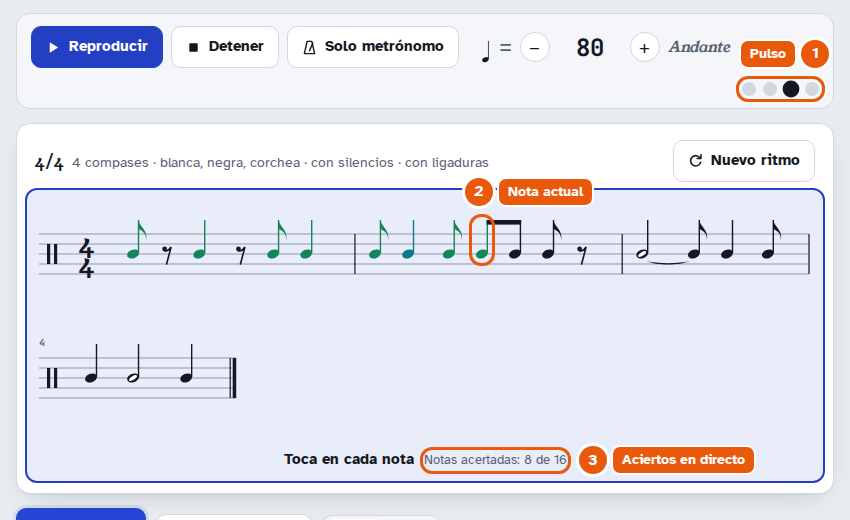
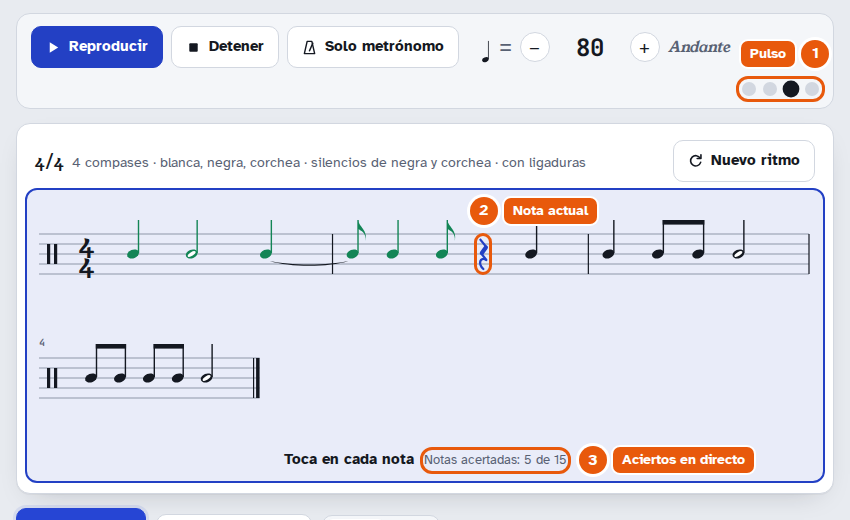
Silencios elegibles uno por uno, campaña actualizada y README
- Las celdas derivan de sus eventos qué notas (req) y qué silencios (rreq)
  usan; los silencios se eligen por figura (redonda, blanca, negra, negra con
  puntillo, corchea, semicorchea) en un panel como el de las figuras, y ya no
  dependen de tener elegida la figura de nota.
- Aviso cuando un silencio elegido no cabe en el compás o necesita figuras
  más cortas. Los ajustes antiguos (silencios sí/no) se migran solos.
- Texto de la zona de toque: «toca sobre la partitura».
- Campaña: cada nivel define sus silencios; niveles nuevos «Silencio de
  semicorchea», «Siete octavos: 3+2+2» y «Cinco octavos: 2+3» (29 en total).
- README y capturas actualizados.

Claude-Session: https://claude.ai/code/session_01KR51CwVVXhtFmUshsMceNd

diff --git a/index.html b/index.html
@@ -151,7 +151,9 @@
         <h2>Figuras</h2>
         <div class="fig-grid" id="figs"></div>
         <p class="hint">El número indica cuántas negras dura cada figura.</p>
-        <label class="sw"><input type="checkbox" id="rests"><span class="track"></span><span>Incluir silencios<small>De las figuras que elegiste</small></span></label>
+        <h2 class="sub">Silencios</h2>
+        <div class="fig-grid" id="restFigs"></div>
+        <p class="hint">Elige qué silencios pueden salir, igual que las figuras. Sin ninguno, el ritmo no tendrá silencios.</p>
         <label class="sw"><input type="checkbox" id="ties"><span class="track"></span><span>Síncopas y ligaduras<small>Notas ligadas entre tiempos y compases, y síncopas como corchea-negra-corchea. La nota ligada no se vuelve a tocar.</small></span></label>
       </div>
 
@@ -263,70 +265,88 @@ function sigOf(C){
   return {...base, groups:g.split('+').map(n=>n==='2'?12:18), grp:g};
 }
 const SIMPLE_BEAT = [
-  {req:['q'], ev:[[12]]},
-  {req:['e'], ev:[[6],[6]]},
-  {req:['s'], ev:[[3],[3],[3],[3]]},
-  {req:['e','s'], ev:[[6],[3],[3]]},
-  {req:['e','s'], ev:[[3],[3],[6]]},
-  {req:['e','s'], ev:[[3],[6],[3]]},
-  {req:['ed','s'], ev:[[9],[3]]},
-  {req:['t'], ev:[[4],[4],[4]], tuplet:true},
-  {req:['q'], rest:true, ev:[[12,1]]},
-  {req:['e'], rest:true, ev:[[6,1],[6]]},
-  {req:['e'], rest:true, ev:[[6],[6,1]]},
-  {req:['s'], rest:true, ev:[[3,1],[3],[3],[3]]},
-  {req:['s'], rest:true, ev:[[3],[3],[3,1],[3]]},
-  {req:['e','s'], rest:true, ev:[[6,1],[3],[3]]},
-  {req:['e','s'], rest:true, ev:[[3,1],[3],[6]]},
-  {req:['e','s'], rest:true, ev:[[6],[3,1],[3]]},
-  {req:['ed','s'], rest:true, ev:[[3,1],[9]]},
+  {ev:[[12]]},
+  {ev:[[6],[6]]},
+  {ev:[[3],[3],[3],[3]]},
+  {ev:[[6],[3],[3]]},
+  {ev:[[3],[3],[6]]},
+  {ev:[[3],[6],[3]]},
+  {ev:[[9],[3]]},
+  {ev:[[4],[4],[4]], tuplet:true},
+  {ev:[[12,1]]},
+  {ev:[[6,1],[6]]},
+  {ev:[[6],[6,1]]},
+  {ev:[[3,1],[3],[3],[3]]},
+  {ev:[[3],[3],[3,1],[3]]},
+  {ev:[[6,1],[3],[3]]},
+  {ev:[[3,1],[3],[6]]},
+  {ev:[[6],[3,1],[3]]},
+  {ev:[[3,1],[9]]},
 ];
 const SIMPLE_MULTI = [
-  {req:['h'], ev:[[24]]},
-  {req:['hd'], ev:[[36]]},
-  {req:['w'], ev:[[48]], wholeBar:true},
-  {req:['qd','e'], ev:[[18],[6]]},
-  {req:['e','q'], sync:true, ev:[[6],[12],[6]]},
-  {req:['q','h'], sync:true, ev:[[12],[24],[12]], wholeBar:true},
-  {req:['h'], rest:true, ev:[[24,1]]},
-  {req:['w'], rest:true, ev:[[48,1]], wholeBar:true},
+  {ev:[[24]]},
+  {ev:[[36]]},
+  {ev:[[48]], wholeBar:true},
+  {ev:[[18],[6]]},
+  {sync:true, ev:[[6],[12],[6]]},
+  {sync:true, ev:[[12],[24],[12]], wholeBar:true},
+  {ev:[[24,1]]},
+  {ev:[[48,1]], wholeBar:true},
 ];
 const COMP_BEAT = [
-  {req:['qd'], ev:[[18]]},
-  {req:['e'], ev:[[6],[6],[6]]},
-  {req:['q','e'], ev:[[12],[6]]},
-  {req:['q','e'], ev:[[6],[12]]},
-  {req:['e','s'], ev:[[3],[3],[6],[6]]},
-  {req:['e','s'], ev:[[6],[3],[3],[6]]},
-  {req:['e','s'], ev:[[6],[6],[3],[3]]},
-  {req:['s'], ev:[[3],[3],[3],[3],[3],[3]]},
-  {req:['ed','s','e'], ev:[[9],[3],[6]]},
-  {req:['qd'], rest:true, ev:[[18,1]]},
-  {req:['e'], rest:true, ev:[[6,1],[6],[6]]},
-  {req:['e'], rest:true, ev:[[6],[6],[6,1]]},
-  {req:['q','e'], rest:true, ev:[[12],[6,1]]},
-  {req:['q','e'], rest:true, ev:[[12,1],[6]]},
-  {req:['s'], rest:true, ev:[[3,1],[3],[3],[3],[3],[3]]},
-  {req:['e','s'], rest:true, ev:[[3,1],[3],[6],[6]]},
-  {req:['e','s'], rest:true, ev:[[6],[3,1],[3],[6]]},
-  {req:['e','s'], rest:true, ev:[[6],[6],[3,1],[3]]},
+  {ev:[[18]]},
+  {ev:[[6],[6],[6]]},
+  {ev:[[12],[6]]},
+  {ev:[[6],[12]]},
+  {ev:[[3],[3],[6],[6]]},
+  {ev:[[6],[3],[3],[6]]},
+  {ev:[[6],[6],[3],[3]]},
+  {ev:[[3],[3],[3],[3],[3],[3]]},
+  {ev:[[9],[3],[6]]},
+  {ev:[[18,1]]},
+  {ev:[[6,1],[6],[6]]},
+  {ev:[[6],[6],[6,1]]},
+  {ev:[[12],[6,1]]},
+  {ev:[[12,1],[6]]},
+  {ev:[[3,1],[3],[3],[3],[3],[3]]},
+  {ev:[[3,1],[3],[6],[6]]},
+  {ev:[[6],[3,1],[3],[6]]},
+  {ev:[[6],[6],[3,1],[3]]},
 ];
-const COMP_MULTI = [ {req:['hd'], ev:[[36]]} ];
+const COMP_MULTI = [ {ev:[[36]]} ];
+// Figuras que usa cada celda, derivadas de sus eventos: req = notas, rreq = silencios
+const DUR2K = {48:'w',36:'hd',24:'h',18:'qd',12:'q',9:'ed',6:'e',4:'t',3:'s'};
+[SIMPLE_BEAT,SIMPLE_MULTI,COMP_BEAT,COMP_MULTI].flat().forEach(c=>{
+  const keys=r=>[...new Set(c.ev.filter(e=>!!e[1]===r).map(e=>DUR2K[e[0]]))];
+  c.req=keys(false); c.rreq=keys(true); c.rest=c.rreq.length>0;
+});
+// Silencios que se pueden elegir (cada uno por separado, como las figuras)
+const RESTS = [
+  {k:'w', name:'Silencio de redonda', short:'redonda', val:'4'},
+  {k:'h', name:'Silencio de blanca', short:'blanca', val:'2'},
+  {k:'q', name:'Silencio de negra', short:'negra', val:'1'},
+  {k:'qd', name:'Silencio de negra con puntillo', short:'negra con puntillo', val:'1½'},
+  {k:'e', name:'Silencio de corchea', short:'corchea', val:'½'},
+  {k:'s', name:'Silencio de semicorchea', short:'semicorchea', val:'¼'},
+];
+const REST_KEYS = RESTS.map(r=>r.k);
+// Silencios activos: lista (práctica libre y niveles); acepta el booleano antiguo (= silencios de las figuras elegidas)
+function restList(C){ return Array.isArray(C.rests) ? C.rests : (C.rests ? C.figs.filter(k=>REST_KEYS.includes(k)) : []); }
 
-const DEFAULTS = {sig:'4/4', bars:4, figs:['h','q','e'], rests:true, sound:true, cursor:true, loop:false,
+const DEFAULTS = {sig:'4/4', bars:4, figs:['h','q','e'], rests:['h','q','e'], sound:true, cursor:true, loop:false,
   timbre:'tono', rhythmVol:0.6, bpm:80, metro:true, accent:true, sub:'0', countIn:'1', metroVol:0.7, offset:0,
   autosave:true, view:'libre', level:0, levelId:'', penalize:true, hold:false, ties:false, tapSound:false, tapVol:0.6, grp:{}};
 let set = load();
 function load(){
-  try{ const raw = localStorage.getItem(KEY); if(raw){ const o = JSON.parse(raw); const s = Object.assign({}, DEFAULTS, o); if(!SIGS[s.sig]) s.sig='4/4'; s.grp = (s.grp && typeof s.grp==='object') ? {...s.grp} : {}; if(!Array.isArray(s.figs)||!s.figs.length) s.figs=[...DEFAULTS.figs]; return s; } }catch(e){}
-  return {...DEFAULTS, figs:[...DEFAULTS.figs], grp:{}};
+  try{ const raw = localStorage.getItem(KEY); if(raw){ const o = JSON.parse(raw); const s = Object.assign({}, DEFAULTS, o); if(!SIGS[s.sig]) s.sig='4/4'; s.grp = (s.grp && typeof s.grp==='object') ? {...s.grp} : {}; if(!Array.isArray(s.figs)||!s.figs.length) s.figs=[...DEFAULTS.figs]; s.rests=restList(s).filter(k=>REST_KEYS.includes(k)); return s; } }catch(e){}
+  return {...DEFAULTS, figs:[...DEFAULTS.figs], rests:[...DEFAULTS.rests], grp:{}};
 }
 function save(){ try{ localStorage.setItem(KEY, JSON.stringify(set)); }catch(e){} }
 
 /* ---------- Generación ---------- */
 let score = null, judg = [], extras = 0, extraTks = []; // extraTks: posición (en ticks) de cada golpe de más
 const sum = a => a.reduce((s,x)=>s+x,0);
-function allowed(c){ const C=cfg(); if(c.rest && !C.rests) return false; if(c.sync && !C.ties) return false; return c.req.every(k=>C.figs.includes(k)); }
+function allowed(c){ const C=cfg(), R=restList(C); if(c.sync && !C.ties) return false; return c.req.every(k=>C.figs.includes(k)) && c.rreq.every(k=>R.includes(k)); }
 function weighted(a){ const t=sum(a.map(x=>x.w)); let r=Math.random()*t; for(const x of a){ r-=x.w; if(r<=0) return x; } return a[a.length-1]; }
 function genMeasure(sig, L){
   const G = sig.groups; let last = null;
@@ -551,6 +571,14 @@ function measureSVG(mi,mx,MW){
 function renderSigs(){
   $('#sigs').innerHTML=Object.keys(SIGS).map(k=>{ const [n,d]=k.split('/'); return `<button type="button" class="sig" data-sig="${k}" aria-pressed="${k===set.sig}" title="${SIG_TITLES[k]||'Compás '+k}" aria-label="Compás ${k}"><span>${n}</span><span>${d}</span></button>`; }).join('');
 }
+function miniRest(k){
+  const d={w:48,h:24,q:12,qd:18,e:6,s:3}[k];
+  const line = d===48 ? `<line x1="-8" y1="12" x2="8" y2="12" stroke="currentColor" stroke-width="1"/>` : d===24 ? `<line x1="-8" y1="22" x2="8" y2="22" stroke="currentColor" stroke-width="1"/>` : '';
+  return `<svg class="mini" viewBox="-11 -8 ${d===18?30:22} 58" aria-hidden="true">${line}${restSVG(0,2,d)}</svg>`;
+}
+function renderRests(){
+  $('#restFigs').innerHTML=RESTS.map(r=>`<button type="button" class="fig" data-r="${r.k}" aria-pressed="${set.rests.includes(r.k)}">${miniRest(r.k)}<span class="fn">${r.name}</span><span class="fv">${r.val}</span></button>`).join('');
+}
 function renderGrp(){
   const opts=ODD_GROUPS[set.sig]; $('#grpRow').hidden=!opts; if(!opts) return;
   const cur=sigOf(set).grp;
@@ -562,12 +590,25 @@ function renderFigs(){
 function renderSummary(){
   const C=cfg();
   const names=FIGS.filter(f=>C.figs.includes(f.k)).map(f=>f.name.toLowerCase());
+  const rn=RESTS.filter(r=>restList(C).includes(r.k)).map(r=>r.short);
+  const rtxt = !rn.length ? '' : ' · silencios de '+(rn.length>1 ? rn.slice(0,-1).join(', ')+' y '+rn[rn.length-1] : rn[0]);
   const g=sigOf(C).grp;
-  $('#summary').innerHTML=`<b>${C.sig}</b>${g?` <span class="grp">(${g})</span>`:''} ${C.bars} ${C.bars===1?'compás':'compases'} · ${names.join(', ')}${C.rests?' · con silencios':''}${C.ties?' · con ligaduras':''}`;
+  $('#summary').innerHTML=`<b>${C.sig}</b>${g?` <span class="grp">(${g})</span>`:''} ${C.bars} ${C.bars===1?'compás':'compases'} · ${names.join(', ')}${rtxt}${C.ties?' · con ligaduras':''}`;
   const n=$('#notice');
   const sig=SIGS[C.sig];
   const warnT = C.figs.includes('t') && sig.kind!=='simple';
+  // silencios elegidos que ninguna celda posible de este compás puede usar
+  const L=sum(sig.groups), cells = sig.kind==='simple' ? [...SIMPLE_BEAT,...SIMPLE_MULTI] : sig.kind==='compound' ? [...COMP_BEAT,...COMP_MULTI] : [...SIMPLE_BEAT.filter(c=>!c.tuplet),...COMP_BEAT];
+  const fits = (r,withFigs) => cells.some(c=>c.rreq.includes(r.k) && (!c.wholeBar || L===48) && (!withFigs || allowed(c)));
+  const chosen = RESTS.filter(r=>restList(C).includes(r.k));
+  const noFit = chosen.filter(r=>!fits(r,false)), needFigs = chosen.filter(r=>fits(r,false) && !fits(r,true));
+  const lst = a => a.map(r=>r.name.toLowerCase()).join(' ni el ');
   if(score.fb){ n.textContent='Algunas partes se completaron con silencios porque las figuras elegidas no encajan en este compás. Prueba a añadir negras o corcheas.'; n.hidden=false; }
+  else if(noFit.length || needFigs.length){
+    n.textContent = [noFit.length ? `En ${C.sig} no cabe el ${lst(noFit)}.` : '',
+      needFigs.length ? `Con las figuras elegidas no puede salir el ${lst(needFigs)}: necesita figuras más cortas a su lado (por ejemplo, semicorcheas para el silencio de semicorchea).` : ''].filter(Boolean).join(' ');
+    n.hidden=false;
+  }
   else if(warnT){ n.textContent='Los tresillos solo se usan en compases de subdivisión binaria (2/4, 3/4, 4/4, 5/4, 2/2).'; n.hidden=false; }
   else n.hidden=true;
 }
@@ -593,7 +634,7 @@ function setBpm(v, fromUser=true){
   if(fromUser){ save(); if(S.running && S.mode!=='metro') stop(); }
 }
 function syncControls(){
-  ['rests','ties','sound','cursor','loop','metro','accent','tapSound'].forEach(id=>{ $('#'+id).checked=!!set[id]; });
+  ['ties','sound','cursor','loop','metro','accent','tapSound'].forEach(id=>{ $('#'+id).checked=!!set[id]; });
   $('#timbre').value=set.timbre; $('#sub').value=set.sub; $('#countIn').value=set.countIn;
   $('#rhythmVol').value=set.rhythmVol; $('#metroVol').value=set.metroVol; $('#tapVol').value=set.tapVol; syncTapVol(); $('#offset').value=set.offset;
   $('#bars').textContent=set.bars;
@@ -925,7 +966,7 @@ function showPad(){
 }
 function padIdle(){
   $('#pad').classList.remove('live');
-  $('#padMain').textContent='Pulsa «Practicar» y toca aquí en cada nota';
+  $('#padMain').textContent='Pulsa «Practicar» y toca sobre la partitura en cada nota';
   $('#padSub').textContent='También puedes usar el teclado evita la barra espaciadora. Antes de empezar suena la cuenta.';
 }
 function startCalib(){
@@ -1015,32 +1056,35 @@ function finishCalib(){
 /* ---------- Campaña ---------- */
 const CHAPTERS = ['El pulso','Corcheas','Semicorcheas y tresillos','Compases compuestos','Síncopas y ligaduras','Desafíos'];
 const LEVELS = [
-  {id:'L1',ch:0,title:'Negras en el pulso',desc:'Una nota por tiempo. Toca justo con cada clic del metrónomo.',sig:'4/4',bars:2,figs:['q'],rests:false,bpm:60,goal:70},
-  {id:'L2',ch:0,title:'Negras y blancas',desc:'La blanca dura dos tiempos: tócala una vez y deja pasar el segundo tiempo sin tocar.',sig:'4/4',bars:2,figs:['q','h'],rests:false,bpm:60,goal:70},
-  {id:'L3',ch:0,title:'La redonda',desc:'Cuatro tiempos en una sola nota. Sigue contando mientras suena.',sig:'4/4',bars:4,figs:['q','h','w'],rests:false,bpm:66,goal:70},
-  {id:'L4',ch:0,title:'Primeros silencios',desc:'En los silencios no se toca, pero el pulso sigue: cuéntalo por dentro.',sig:'4/4',bars:4,figs:['q','h'],rests:true,bpm:66,goal:70},
-  {id:'L5',ch:0,title:'Tres tiempos',desc:'El compás de 3/4 y la blanca con puntillo, que ocupa el compás entero.',sig:'3/4',bars:4,figs:['q','h','hd'],rests:true,bpm:72,goal:72},
-  {id:'L6',ch:1,title:'Dos por tiempo',desc:'Dos corcheas llenan un tiempo. Piensa «un-y, dos-y».',sig:'2/4',bars:4,figs:['q','e'],rests:false,bpm:66,goal:72},
-  {id:'L7',ch:1,title:'Corcheas y silencios',desc:'Un silencio de corchea deja la nota en la segunda mitad del tiempo.',sig:'4/4',bars:4,figs:['q','h','e'],rests:true,bpm:70,goal:72},
-  {id:'L8',ch:1,title:'Negra con puntillo',desc:'Tiempo y medio, casi siempre seguida de una corchea.',sig:'4/4',bars:4,figs:['q','qd','e','h'],rests:false,bpm:72,goal:72},
-  {id:'L9',ch:1,title:'Corcheas en 3/4',desc:'Todo lo anterior, ahora en compás de tres.',sig:'3/4',bars:4,figs:['q','qd','e','h','hd'],rests:true,bpm:80,goal:75},
-  {id:'L10',ch:2,title:'Cuatro por tiempo',desc:'Cuatro semicorcheas por tiempo: «1-e-y-a».',sig:'2/4',bars:4,figs:['q','e','s'],rests:false,bpm:60,goal:72},
-  {id:'L11',ch:2,title:'Mezclas de semicorcheas',desc:'Corchea y dos semicorcheas, y al revés.',sig:'4/4',bars:4,figs:['q','e','s'],rests:true,bpm:66,goal:74},
-  {id:'L12',ch:2,title:'Corchea con puntillo',desc:'El ritmo largo-corto: corchea con puntillo y semicorchea.',sig:'4/4',bars:4,figs:['q','e','ed','s'],rests:false,bpm:66,goal:74},
-  {id:'L13',ch:2,title:'Tresillos',desc:'Tres corcheas iguales en un tiempo. No las conviertas en dos más una.',sig:'4/4',bars:4,figs:['q','e','t'],rests:false,bpm:66,goal:74},
-  {id:'L14',ch:3,title:'El 6/8',desc:'Dos pulsos de negra con puntillo, cada uno dividido en tres corcheas.',sig:'6/8',bars:4,figs:['qd','q','e'],rests:false,bpm:50,goal:72},
-  {id:'L15',ch:3,title:'6/8 con silencios',desc:'Silencios y semicorcheas dentro del compás compuesto.',sig:'6/8',bars:4,figs:['qd','q','e','s'],rests:true,bpm:52,goal:74},
-  {id:'L16',ch:3,title:'El 12/8',desc:'Cuatro pulsos ternarios, con blanca con puntillo.',sig:'12/8',bars:2,figs:['qd','q','e','hd'],rests:true,bpm:56,goal:75},
-  {id:'L21',ch:4,title:'La síncopa',desc:'Corchea, negra, corchea: la negra empieza entre dos tiempos. Tócala en el «y» y deja que el pulso pase por debajo.',sig:'2/4',bars:4,figs:['q','e'],rests:false,ties:true,bpm:60,goal:70},
-  {id:'L22',ch:4,title:'Ligaduras de prolongación',desc:'La ligadura une dos notas: toca solo la primera y cuenta las dos. La segunda no se toca.',sig:'4/4',bars:4,figs:['q','h','e'],rests:false,ties:true,bpm:66,goal:72},
-  {id:'L23',ch:4,title:'Síncopas de semicorchea',desc:'Semicorchea, corchea, semicorchea y notas ligadas sobre el tiempo.',sig:'2/4',bars:4,figs:['q','e','s'],rests:true,ties:true,bpm:60,goal:72},
-  {id:'L24',ch:4,title:'Ligaduras en 6/8',desc:'Notas ligadas entre los dos pulsos de negra con puntillo y sobre la barra de compás.',sig:'6/8',bars:4,figs:['qd','q','e'],rests:false,ties:true,bpm:50,goal:74},
-  {id:'L17',ch:5,title:'Siete octavos',desc:'Compás irregular agrupado 2+2+3. El metrónomo marca cada corchea.',sig:'7/8',grp:'2+2+3',bars:4,figs:['q','e'],rests:false,bpm:150,goal:74},
-  {id:'L18',ch:5,title:'Cinco octavos',desc:'Agrupado 3+2, ahora con semicorcheas.',sig:'5/8',grp:'3+2',bars:4,figs:['q','e','s'],rests:true,bpm:150,goal:75},
-  {id:'L25',ch:5,title:'Ocho octavos',desc:'Agrupado 3+3+2: dos grupos largos y uno corto. El metrónomo marca cada corchea.',sig:'8/8',grp:'3+3+2',bars:4,figs:['q','qd','e'],rests:true,bpm:150,goal:75},
-  {id:'L26',ch:5,title:'Tres blancas',desc:'El 3/2: el pulso es la blanca. Cada clic vale dos negras.',sig:'3/2',bars:4,figs:['h','q','e'],rests:true,bpm:60,goal:75},
-  {id:'L19',ch:5,title:'Todo junto',desc:'Ocho compases con casi todas las figuras.',sig:'4/4',bars:8,figs:['h','q','qd','e','ed','s','t'],rests:true,bpm:76,goal:76},
-  {id:'L20',ch:5,title:'Maestría',desc:'Todas las figuras a tempo de Allegro.',sig:'4/4',bars:8,figs:['w','h','hd','q','qd','e','ed','s','t'],rests:true,bpm:100,goal:80},
+  {id:'L1',ch:0,title:'Negras en el pulso',desc:'Una nota por tiempo. Toca justo con cada clic del metrónomo.',sig:'4/4',bars:2,figs:['q'],rests:[],bpm:60,goal:70},
+  {id:'L2',ch:0,title:'Negras y blancas',desc:'La blanca dura dos tiempos: tócala una vez y deja pasar el segundo tiempo sin tocar.',sig:'4/4',bars:2,figs:['q','h'],rests:[],bpm:60,goal:70},
+  {id:'L3',ch:0,title:'La redonda',desc:'Cuatro tiempos en una sola nota. Sigue contando mientras suena.',sig:'4/4',bars:4,figs:['q','h','w'],rests:[],bpm:66,goal:70},
+  {id:'L4',ch:0,title:'Primeros silencios',desc:'En los silencios no se toca, pero el pulso sigue: cuéntalo por dentro.',sig:'4/4',bars:4,figs:['q','h'],rests:['q','h'],bpm:66,goal:70},
+  {id:'L5',ch:0,title:'Tres tiempos',desc:'El compás de 3/4 y la blanca con puntillo, que ocupa el compás entero.',sig:'3/4',bars:4,figs:['q','h','hd'],rests:['q','h'],bpm:72,goal:72},
+  {id:'L6',ch:1,title:'Dos por tiempo',desc:'Dos corcheas llenan un tiempo. Piensa «un-y, dos-y».',sig:'2/4',bars:4,figs:['q','e'],rests:[],bpm:66,goal:72},
+  {id:'L7',ch:1,title:'Corcheas y silencios',desc:'Un silencio de corchea deja la nota en la segunda mitad del tiempo.',sig:'4/4',bars:4,figs:['q','h','e'],rests:['q','e'],bpm:70,goal:72},
+  {id:'L8',ch:1,title:'Negra con puntillo',desc:'Tiempo y medio, casi siempre seguida de una corchea.',sig:'4/4',bars:4,figs:['q','qd','e','h'],rests:[],bpm:72,goal:72},
+  {id:'L9',ch:1,title:'Corcheas en 3/4',desc:'Todo lo anterior, ahora en compás de tres.',sig:'3/4',bars:4,figs:['q','qd','e','h','hd'],rests:['q','e'],bpm:80,goal:75},
+  {id:'L10',ch:2,title:'Cuatro por tiempo',desc:'Cuatro semicorcheas por tiempo: «1-e-y-a».',sig:'2/4',bars:4,figs:['q','e','s'],rests:[],bpm:60,goal:72},
+  {id:'L11',ch:2,title:'Mezclas de semicorcheas',desc:'Corchea y dos semicorcheas, y al revés.',sig:'4/4',bars:4,figs:['q','e','s'],rests:['q','e'],bpm:66,goal:74},
+  {id:'L12',ch:2,title:'Corchea con puntillo',desc:'El ritmo largo-corto: corchea con puntillo y semicorchea.',sig:'4/4',bars:4,figs:['q','e','ed','s'],rests:[],bpm:66,goal:74},
+  {id:'L27',ch:2,title:'Silencio de semicorchea',desc:'Un silencio de semicorchea retrasa la nota un cuarto de tiempo. Cuenta «1-e-y-a» por dentro y entra justo en su sitio.',sig:'2/4',bars:4,figs:['q','e','s'],rests:['e','s'],bpm:60,goal:72},
+  {id:'L13',ch:2,title:'Tresillos',desc:'Tres corcheas iguales en un tiempo. No las conviertas en dos más una.',sig:'4/4',bars:4,figs:['q','e','t'],rests:[],bpm:66,goal:74},
+  {id:'L14',ch:3,title:'El 6/8',desc:'Dos pulsos de negra con puntillo, cada uno dividido en tres corcheas.',sig:'6/8',bars:4,figs:['qd','q','e'],rests:[],bpm:50,goal:72},
+  {id:'L15',ch:3,title:'6/8 con silencios',desc:'Silencios y semicorcheas dentro del compás compuesto.',sig:'6/8',bars:4,figs:['qd','q','e','s'],rests:['qd','q','e'],bpm:52,goal:74},
+  {id:'L16',ch:3,title:'El 12/8',desc:'Cuatro pulsos ternarios, con blanca con puntillo.',sig:'12/8',bars:2,figs:['qd','q','e','hd'],rests:['qd','e'],bpm:56,goal:75},
+  {id:'L21',ch:4,title:'La síncopa',desc:'Corchea, negra, corchea: la negra empieza entre dos tiempos. Tócala en el «y» y deja que el pulso pase por debajo.',sig:'2/4',bars:4,figs:['q','e'],rests:[],ties:true,bpm:60,goal:70},
+  {id:'L22',ch:4,title:'Ligaduras de prolongación',desc:'La ligadura une dos notas: toca solo la primera y cuenta las dos. La segunda no se toca.',sig:'4/4',bars:4,figs:['q','h','e'],rests:[],ties:true,bpm:66,goal:72},
+  {id:'L23',ch:4,title:'Síncopas de semicorchea',desc:'Semicorchea, corchea, semicorchea y notas ligadas sobre el tiempo.',sig:'2/4',bars:4,figs:['q','e','s'],rests:['e','s'],ties:true,bpm:60,goal:72},
+  {id:'L24',ch:4,title:'Ligaduras en 6/8',desc:'Notas ligadas entre los dos pulsos de negra con puntillo y sobre la barra de compás.',sig:'6/8',bars:4,figs:['qd','q','e'],rests:[],ties:true,bpm:50,goal:74},
+  {id:'L17',ch:5,title:'Siete octavos',desc:'Compás irregular agrupado 2+2+3. El metrónomo marca cada corchea.',sig:'7/8',grp:'2+2+3',bars:4,figs:['q','e'],rests:[],bpm:150,goal:74},
+  {id:'L28',ch:5,title:'Siete octavos: 3+2+2',desc:'El mismo compás con el grupo largo al principio. El metrónomo acentúa el inicio de cada grupo.',sig:'7/8',grp:'3+2+2',bars:4,figs:['q','qd','e'],rests:['e'],bpm:150,goal:75},
+  {id:'L18',ch:5,title:'Cinco octavos',desc:'Agrupado 3+2, ahora con semicorcheas.',sig:'5/8',grp:'3+2',bars:4,figs:['q','e','s'],rests:['e'],bpm:150,goal:75},
+  {id:'L29',ch:5,title:'Cinco octavos: 2+3',desc:'Los grupos al revés: primero el corto. Siente dónde cae cada acento.',sig:'5/8',grp:'2+3',bars:4,figs:['q','qd','e','s'],rests:['e','s'],bpm:150,goal:75},
+  {id:'L25',ch:5,title:'Ocho octavos',desc:'Agrupado 3+3+2: dos grupos largos y uno corto. El metrónomo marca cada corchea.',sig:'8/8',grp:'3+3+2',bars:4,figs:['q','qd','e'],rests:['q','e'],bpm:150,goal:75},
+  {id:'L26',ch:5,title:'Tres blancas',desc:'El 3/2: el pulso es la blanca. Cada clic vale dos negras.',sig:'3/2',bars:4,figs:['h','q','e'],rests:['h','q'],bpm:60,goal:75},
+  {id:'L19',ch:5,title:'Todo junto',desc:'Ocho compases con casi todas las figuras.',sig:'4/4',bars:8,figs:['h','q','qd','e','ed','s','t'],rests:['h','q','e','s'],bpm:76,goal:76},
+  {id:'L20',ch:5,title:'Maestría',desc:'Todas las figuras a tempo de Allegro.',sig:'4/4',bars:8,figs:['w','h','hd','q','qd','e','ed','s','t'],rests:['w','h','q','e','s'],bpm:100,goal:80},
 ];
 // Los id son fijos: el avance (prog.levels) se guarda por id y los niveles nuevos no deben moverlo.
 LEVELS.forEach(l=>{ l.s2=Math.min(l.goal+12,90); l.s3=95; });
@@ -1280,7 +1324,14 @@ $('#figs').addEventListener('click',e=>{
 });
 $('#barsDown').addEventListener('click',()=>{ if(set.bars>1){ set.bars--; $('#bars').textContent=set.bars; rhythmChanged(); } });
 $('#barsUp').addEventListener('click',()=>{ if(set.bars<16){ set.bars++; $('#bars').textContent=set.bars; rhythmChanged(); } });
-['rests','ties'].forEach(id=>$('#'+id).addEventListener('change',e=>{ set[id]=e.target.checked; rhythmChanged(); }));
+$('#ties').addEventListener('change',e=>{ set.ties=e.target.checked; rhythmChanged(); });
+$('#restFigs').addEventListener('click',e=>{
+  const b=e.target.closest('.fig'); if(!b) return;
+  const k=b.dataset.r, i=set.rests.indexOf(k);
+  if(i>=0) set.rests.splice(i,1); else set.rests.push(k);
+  b.setAttribute('aria-pressed',String(set.rests.includes(k)));
+  rhythmChanged();
+});
 ['sound','loop','metro','accent'].forEach(id=>$('#'+id).addEventListener('change',e=>{ set[id]=e.target.checked; save(); if(S.running && S.mode!=='metro') stop(); }));
 $('#cursor').addEventListener('change',e=>{ set.cursor=e.target.checked; save(); if(!set.cursor && S.nowI>=0 && evEls[S.nowI]) evEls[S.nowI].classList.remove('now'); });
 ['timbre','sub','countIn'].forEach(id=>$('#'+id).addEventListener('change',e=>{ set[id]=e.target.value; save(); if(S.running && S.mode!=='metro') stop(); }));
@@ -1363,7 +1414,7 @@ $('#pClearBox').addEventListener('click',e=>{
 });
 new ResizeObserver(()=>{ if(!$('#progView').hidden) renderChart(prog.sessions.filter(r=>pFilter==='todo'||r.mode===pFilter)); }).observe($('#progView'));
 
-renderSigs(); renderGrp(); renderFigs(); syncControls(); padIdle();
+renderSigs(); renderGrp(); renderFigs(); renderRests(); syncControls(); padIdle();
 setView(stageMode);
 initStore();
 })();

diff --git a/styles.css b/styles.css
@@ -162,6 +162,7 @@ kbd{font-family:var(--mono);font-size:11px;border:1px solid var(--line);border-b
 .panel{background:var(--panel);border:1px solid var(--line);border-radius:14px;padding:18px;display:flex;flex-direction:column;gap:22px}
 .sec{display:flex;flex-direction:column;gap:10px}
 .sec h2{margin:0;font-size:11px;font-weight:700;letter-spacing:.12em;text-transform:uppercase;color:var(--muted)}
+.sec h2.sub{margin-top:10px}
 .grp-row{display:flex;flex-wrap:wrap;align-items:center;gap:6px 10px;margin-top:10px}
 .grp-row .seg button{font-family:var(--mono)}
 .summary .grp{font-family:var(--mono);font-size:13px;color:var(--ink)}

diff --git a/CLAUDE.md b/CLAUDE.md
@@ -18,7 +18,7 @@ Nació como un Artifact publicado en claude.ai. Allí el progreso se guardaba en
 | Transporte | Planificador: programa por adelantado toda la pasada (o compás a compás en «Solo metrónomo»), cuenta previa, bucle y cursor sincronizado con `requestAnimationFrame`. Detener desconecta un bus de ganancia por sesión. |
 | Práctica | `tap(src)` / `release(src)` emparejan cada toque con la nota más cercana dentro de su ventana; puntuación y resultados en `showResults`. |
 | Medición de latencia | 4 clics de cuenta + 16 clics a 90 ppm; descarta los dos primeros toques, filtra por la mediana (±80 ms), promedia y redondea a 5 ms para sugerir la corrección. |
-| Campaña | `CHAPTERS`, `LEVELS` (26 niveles en 6 capítulos), estrellas, desbloqueo, mapa de niveles y ficha del nivel. |
+| Campaña | `CHAPTERS`, `LEVELS` (29 niveles en 6 capítulos), estrellas, desbloqueo, mapa de niveles y ficha del nivel. |
 | Guardado del progreso | `prog = {levels, sessions}`; se guarda en `localStorage` (`solfeo-ritmico-progreso-v1`) y, si está disponible, en el `db` de claude.ai (`data/users/<id>/progress`). `mergeProg` une ambas fuentes. |
 | Vista de progreso | Resumen, gráfica SVG de precisión con media móvil de 5, historial de las últimas 30 prácticas, borrar historial. |
 | Eventos / Inicio | Conexión de controles, teclado (Espacio / cualquier tecla para tocar, N = nuevo ritmo), `pointerdown/up` en la zona de toque. |
@@ -34,7 +34,7 @@ Nació como un Artifact publicado en claude.ai. Allí el progreso se guardaba en
 - **Tiempo en ticks:** 1 negra = 12 ticks (semicorchea 3, corchea de tresillo 4, corchea 6, corchea con puntillo 9, negra con puntillo 18, blanca 24, blanca con puntillo 36, redonda 48).
 - **Compases:** cada uno define `groups` (agrupación de pulsos para generar y agrupar barras), `click` (unidad del metrónomo en ticks) y `kind` (`simple`, `compound`, `odd`). En 2/2 y 3/2 marca la blanca; en 6/8, 9/8 y 12/8, negra con puntillo; en 3/8, 5/8, 7/8 y 8/8 marca corcheas y acentúa el inicio de cada grupo. Los tresillos solo aparecen en compases `simple`.
 - **Amalgama:** `ODD_GROUPS` lista las agrupaciones de 5/8 (3+2, 2+3), 7/8 (2+2+3, 2+3+2, 3+2+2) y 8/8 (3+3+2, 3+2+3, 2+3+3). `sigOf(C)` devuelve el compás con la agrupación elegida (`set.grp[sig]` en práctica libre, `l.grp` en campaña; si falta, la primera) y es lo que usa `generate()`; `score.sig` ya lleva los grupos aplicados, así que metrónomo, luces y barras los siguen solos.
-- **Silencios de semicorchea:** celdas con `[3,1]` en `SIMPLE_BEAT` y `COMP_BEAT` (solo con `rests` y la semicorchea elegida); `restSVG` dibuja el silencio de dos ganchos.
+- **Celdas y silencios:** cada celda solo declara `ev` (`[duración, 1 si es silencio]`); al cargar se derivan `req` (figuras de nota que usa), `rreq` (silencios que usa) y `rest`. `allowed(c)` exige `req ⊆ figs` y `rreq ⊆ restList(C)`, así que un silencio no depende de tener elegida su figura de nota. `set.rests` y `l.rests` son listas de claves de `RESTS` (`w h q qd e s`); `restList` también acepta el booleano antiguo (= silencios de las figuras elegidas) y `load()` lo migra. `renderSummary` avisa si un silencio elegido no cabe en el compás o necesita figuras más cortas. `restSVG` dibuja todos, incluido el de semicorchea (dos ganchos).
 - **Ligaduras y síncopas (`ties`):** cada figura escrita es un evento; `e.tie` marca la que continúa a la anterior (no se toca ni suena), `e.head` apunta a la nota que se toca y `e.len` es lo que suena (la cabeza suma toda la cadena). Reproducción y práctica usan `len` y saltan las ligadas. Solo se liga la última nota de una celda con la primera de la siguiente (máx. 2 notas, nunca tresillos). Las celdas con `sync:true` (corchea-negra-corchea, negra-blanca-negra) solo salen con `ties`.
 - **Evaluación de golpes:** exacto ±40 ms, bien ±90 ms, cerca dentro de la ventana de la nota (mitad de la distancia a la nota vecina, entre 50 y 180 ms). Puntos: 100 / 80 / 50 / 0.
 - **Golpes de más:** restan 40 puntos cada uno si `set.penalize` está activo (activado por defecto); si no, solo se cuentan. Su posición se guarda en `extraTks` (ticks desde el inicio, con la misma corrección de latencia que las notas) y en los resultados se dibuja como un triángulo gris (`.mkextra`) en la fila de los marcadores, interpolado dentro de la figura donde cayó.

diff --git a/README.md b/README.md
@@ -6,11 +6,12 @@ Genera ritmos en partitura según el compás y las figuras que elijas, los repro
 
 ## Qué incluye
 
-- **Práctica libre:** compases 2/4, 3/4, 4/4, 5/4, 2/2, 3/2, 3/8, 6/8, 9/8, 12/8, 5/8, 7/8 y 8/8 (en los de amalgama eliges la agrupación, por ejemplo 2+2+3, 2+3+2 o 3+2+2); de 1 a 16 compases; redonda, blanca, negra, corchea y semicorchea (con y sin puntillo), tresillos, silencios (también de semicorchea), y síncopas y ligaduras opcionales.
+- **Práctica libre:** compases 2/4, 3/4, 4/4, 5/4, 2/2, 3/2, 3/8, 6/8, 9/8, 12/8, 5/8, 7/8 y 8/8 (en los de amalgama eliges la agrupación, por ejemplo 2+2+3, 2+3+2 o 3+2+2); de 1 a 16 compases; redonda, blanca, negra, corchea y semicorchea (con y sin puntillo), tresillos, y síncopas y ligaduras opcionales. Los silencios se eligen uno por uno, igual que las figuras: de redonda, blanca, negra, negra con puntillo, corchea y semicorchea.
 - **Metrónomo:** tempo de 30 a 240 ppm con indicación italiana, acento, subdivisión, cuenta previa y marcado de tempo con toques.
 - **Práctica con evaluación:** en modo batería se mide el ataque de cada nota; en modo piano también cuánto la mantienes. Los golpes de más se pueden penalizar o solo contar, y puedes oír tus propios toques.
 - **Medición de latencia:** calcula la corrección para tu equipo, por ejemplo con auriculares Bluetooth.
-- **Campaña:** 26 niveles en 6 capítulos, del pulso en negras a las síncopas y los compases irregulares, con estrellas y desbloqueo progresivo.
+- **Campaña:** 29 niveles en 6 capítulos, del pulso en negras a las síncopas y los compases de amalgama (con distintas agrupaciones), con estrellas y desbloqueo progresivo. Cada nivel fija qué silencios pueden salir.
+- **Resultados sobre la partitura:** cada nota muestra tu desvío, las notas sin tocar se marcan con una ✕ y los golpes de más con un triángulo en el lugar donde tocaste.
 - **Mi progreso:** historial de prácticas, gráfica de precisión y comparación con las prácticas anteriores.
 
 ## Uso
@@ -24,7 +25,7 @@ Abre `index.html` en el navegador (junto a `styles.css`, en la misma carpeta). N
 ![Pantalla principal con las partes numeradas](docs/capturas/1-pantalla-principal.png)
 
 1. **Modo:** *Práctica libre* (tú eliges todo), *Campaña* (niveles guiados) o *Mi progreso*.
-2. **Compás:** elige el compás (en 5/8, 7/8 y 8/8 aparece además la agrupación de las corcheas) y, debajo, cuántos compases quieres y qué figuras pueden salir. Más abajo en el panel están los silencios, las síncopas y ligaduras, y las opciones del metrónomo.
+2. **Compás:** elige el compás (en 5/8, 7/8 y 8/8 aparece además la agrupación de las corcheas) y, debajo, cuántos compases quieres y qué figuras pueden salir. Debajo de las figuras eliges, uno por uno, qué **silencios** pueden salir (si alguno no puede aparecer con las figuras o el compás elegidos, la app te lo avisa). Más abajo están las síncopas y ligaduras y las opciones del metrónomo.
 3. **Tempo:** con − / +, escribiendo el número o marcándolo con toques.
 4. **Escuchar:** *Reproducir* toca el ritmo con el metrónomo para que lo oigas antes de practicarlo. *Nuevo ritmo* (o la tecla <kbd>N</kbd>) genera otro.
 5. **Partitura:** además de leerla, es donde tocas.
@@ -62,7 +63,7 @@ Si siempre te marca «tarde» aunque vayas a tiempo (pasa con auriculares Blueto
 ![Campaña: ficha del nivel y mapa de niveles con estrellas](docs/capturas/4-campana.png)
 
 1. **Nivel actual:** qué se practica, compás, tempo fijo y la precisión necesaria para 1, 2 y 3 estrellas.
-2. **Mapa de niveles:** 26 niveles en 6 capítulos. Cada nivel se desbloquea al conseguir al menos una estrella en el anterior.
+2. **Mapa de niveles:** 29 niveles en 6 capítulos. Cada nivel se desbloquea al conseguir al menos una estrella en el anterior. Los silencios se introducen poco a poco: primero de negra y blanca, luego de corchea y, en «Silencio de semicorchea», el de semicorchea. En «Desafíos» hay niveles de 7/8 y 5/8 con distintas agrupaciones (2+2+3 y 3+2+2; 3+2 y 2+3).
 
 ### 5. Mi progreso
 
